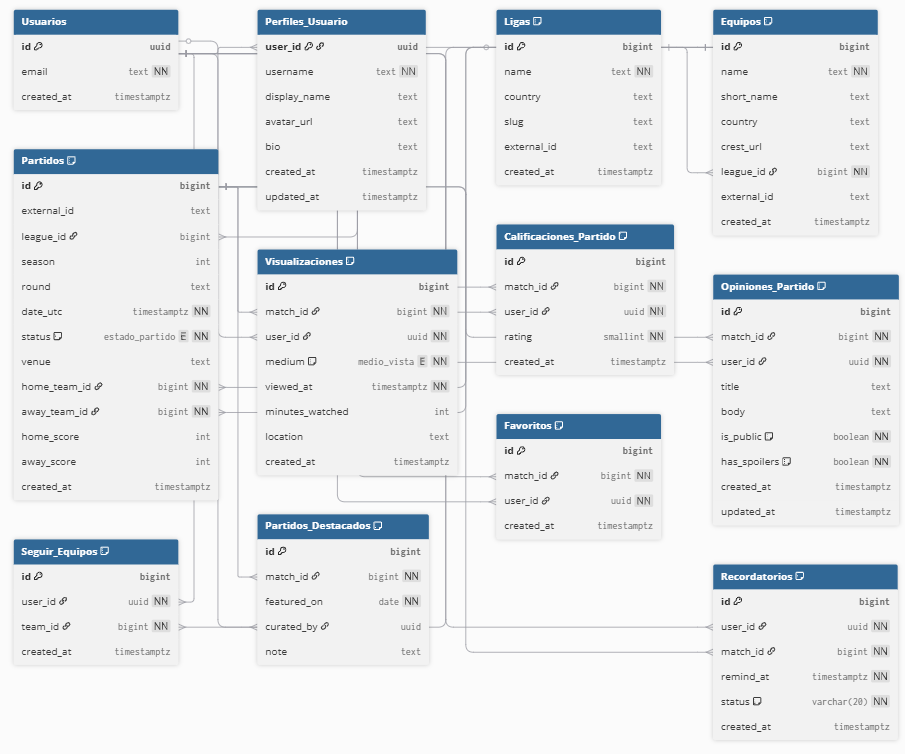
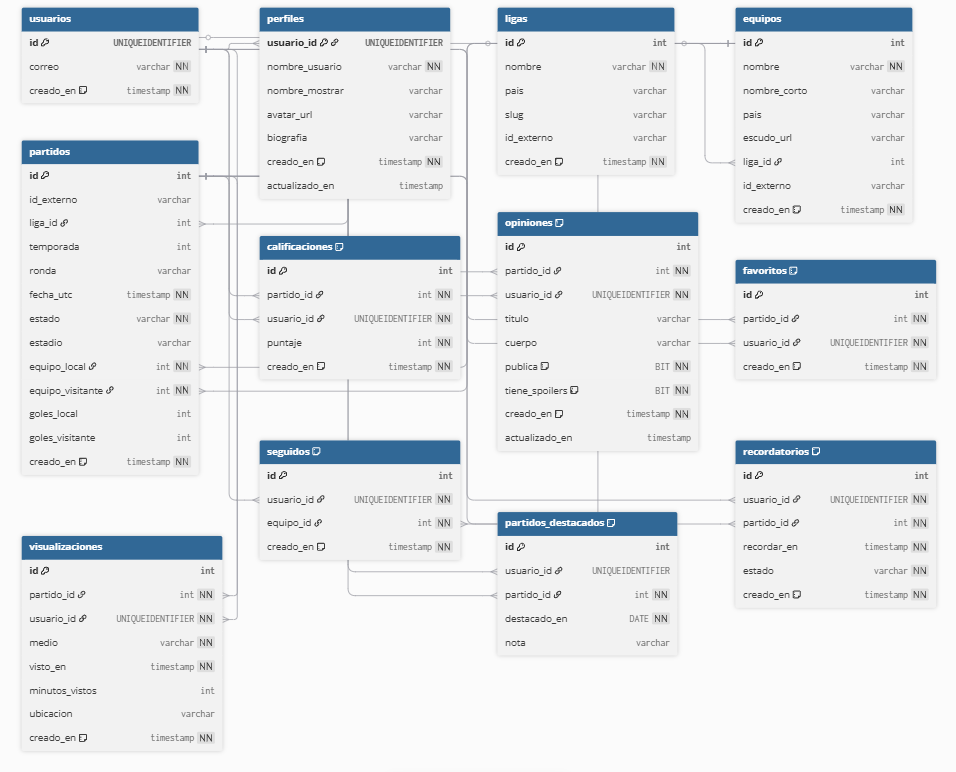
Correccion en el readme y agregue el diccionario de datos completo

diff --git a/docs/diccionario_datos.md b/docs/diccionario_datos.md
@@ -1,0 +1,166 @@
+# Diccionario de datos completo — Tribuneros
+
+Este documento describe en detalle los objetos del esquema `dbo` implementado para la plataforma Tribuneros en SQL Server. Se especifican los campos, tipos de datos, restricciones y propósito funcional de cada tabla con el fin de facilitar la comprensión, el mantenimiento y la evolución del modelo.
+
+## Convenciones
+- **Tipo**: se expresa utilizando la sintaxis de SQL Server.
+- **Nulos**: se indica si la columna admite valores `NULL`.
+- **Predeterminado**: valor asignado automáticamente cuando no se proporciona un dato.
+- **Restricciones y reglas**: incluye claves, restricciones `CHECK`, `UNIQUE`, índices y referencias a otras tablas.
+
+---
+
+## 1. Gestión de usuarios
+
+### Tabla: `usuarios`
+| Columna | Tipo | Nulos | Predeterminado | Restricciones y reglas | Descripción |
+| --- | --- | --- | --- | --- | --- |
+| `id` | `UNIQUEIDENTIFIER` | NO | — | `PK_usuarios` | Identificador global del usuario; se genera en la capa de aplicación (`NEWID()`). |
+| `correo` | `NVARCHAR(255)` | NO | — | `UQ_usuarios_correo` | Correo electrónico utilizado como credencial única de acceso. |
+| `creado_en` | `DATETIME2` | NO | `SYSUTCDATETIME()` | `DF_usuarios_creado` | Marca temporal de alta en UTC para auditoría. |
+
+### Tabla: `perfiles`
+| Columna | Tipo | Nulos | Predeterminado | Restricciones y reglas | Descripción |
+| --- | --- | --- | --- | --- | --- |
+| `usuario_id` | `UNIQUEIDENTIFIER` | NO | — | `PK_perfiles`, `FK_perfiles_usuario` (ON DELETE CASCADE) | Identificador del usuario dueño del perfil; coincide 1:1 con `usuarios.id`. |
+| `nombre_usuario` | `NVARCHAR(30)` | NO | — | `UQ_perfiles_usuario` | Alias público y único en la red social. |
+| `nombre_mostrar` | `NVARCHAR(60)` | SÍ | — | — | Nombre visible en la interfaz. |
+| `avatar_url` | `NVARCHAR(400)` | SÍ | — | — | URL de la imagen de perfil. |
+| `biografia` | `NVARCHAR(400)` | SÍ | — | — | Breve descripción personal del usuario. |
+| `creado_en` | `DATETIME2` | NO | `SYSUTCDATETIME()` | `DF_perfiles_creado` | Fecha y hora de creación del perfil. |
+| `actualizado_en` | `DATETIME2` | SÍ | — | — | Última actualización del perfil. |
+
+---
+
+## 2. Catálogos deportivos
+
+### Tabla: `ligas`
+| Columna | Tipo | Nulos | Predeterminado | Restricciones y reglas | Descripción |
+| --- | --- | --- | --- | --- | --- |
+| `id` | `BIGINT IDENTITY(1,1)` | NO | — | `PK_ligas` | Identificador interno de la liga. |
+| `nombre` | `NVARCHAR(120)` | NO | — | — | Nombre oficial de la liga o competición. |
+| `pais` | `NVARCHAR(80)` | SÍ | — | — | País donde se disputa la liga. |
+| `slug` | `NVARCHAR(120)` | SÍ | — | `UQ_ligas_slug` | Identificador legible y único para URLs o integraciones. |
+| `id_externo` | `NVARCHAR(80)` | SÍ | — | — | Código de referencia en servicios externos. |
+| `creado_en` | `DATETIME2` | NO | `SYSUTCDATETIME()` | `DF_ligas_creado` | Marca temporal de registro de la liga. |
+
+### Tabla: `equipos`
+| Columna | Tipo | Nulos | Predeterminado | Restricciones y reglas | Descripción |
+| --- | --- | --- | --- | --- | --- |
+| `id` | `BIGINT IDENTITY(1,1)` | NO | — | `PK_equipos` | Identificador interno del equipo. |
+| `nombre` | `NVARCHAR(120)` | NO | — | — | Nombre completo del club. |
+| `nombre_corto` | `NVARCHAR(50)` | SÍ | — | — | Abreviatura para listados y marcadores. |
+| `pais` | `NVARCHAR(80)` | SÍ | — | — | País de origen del equipo. |
+| `escudo_url` | `NVARCHAR(400)` | SÍ | — | — | Ruta o URL del escudo institucional. |
+| `liga_id` | `BIGINT` | SÍ | — | `FK_equipos_liga` (ON DELETE SET NULL) | Liga en la que compite; se vacía si la liga se elimina. |
+| `id_externo` | `NVARCHAR(80)` | SÍ | — | — | Código de referencia en proveedores externos. |
+| `creado_en` | `DATETIME2` | NO | `SYSUTCDATETIME()` | `DF_equipos_creado` | Fecha de incorporación del equipo al catálogo. |
+
+---
+
+## 3. Gestión de partidos
+
+### Tabla: `partidos`
+| Columna | Tipo | Nulos | Predeterminado | Restricciones y reglas | Descripción |
+| --- | --- | --- | --- | --- | --- |
+| `id` | `BIGINT IDENTITY(1,1)` | NO | — | `PK_partidos` | Identificador del partido. |
+| `id_externo` | `NVARCHAR(80)` | SÍ | — | — | Código de sincronización con APIs deportivas. |
+| `liga_id` | `BIGINT` | SÍ | — | `FK_partidos_liga` (ON DELETE SET NULL), índice `IX_partidos_liga` | Liga asociada al partido. |
+| `temporada` | `INT` | SÍ | — | — | Año o temporada deportiva. |
+| `ronda` | `NVARCHAR(40)` | SÍ | — | — | Jornada, fecha o etapa del torneo. |
+| `fecha_utc` | `DATETIME2` | NO | — | Índice `IX_partidos_fecha` | Fecha y hora programada en UTC. |
+| `estado` | `NVARCHAR(15)` | NO | — | `CK_partidos_estado` | Estado del partido (`programado`, `en_vivo`, `finalizado`, `pospuesto`, `cancelado`). |
+| `estadio` | `NVARCHAR(120)` | SÍ | — | — | Estadio o sede del encuentro. |
+| `equipo_local` | `BIGINT` | NO | — | `FK_partidos_local` | Equipo que actúa como local. |
+| `equipo_visitante` | `BIGINT` | NO | — | `FK_partidos_visitante` | Equipo visitante. |
+| `goles_local` | `INT` | SÍ | — | — | Goles convertidos por el equipo local. |
+| `goles_visitante` | `INT` | SÍ | — | — | Goles convertidos por el equipo visitante. |
+| `creado_en` | `DATETIME2` | NO | `SYSUTCDATETIME()` | `DF_partidos_creado`, `CK_partidos_equipos_distintos` | Fecha de registro y control de que los equipos sean distintos. |
+
+---
+
+## 4. Interacciones de usuarios
+
+### Tabla: `calificaciones`
+| Columna | Tipo | Nulos | Predeterminado | Restricciones y reglas | Descripción |
+| --- | --- | --- | --- | --- | --- |
+| `id` | `BIGINT IDENTITY(1,1)` | NO | — | `PK_calificaciones` | Identificador de la calificación. |
+| `partido_id` | `BIGINT` | NO | — | `FK_calif_partido` (ON DELETE CASCADE) | Partido evaluado. |
+| `usuario_id` | `UNIQUEIDENTIFIER` | NO | — | `FK_calif_usuario` (ON DELETE CASCADE), índice `IX_calif_usuario` | Usuario que realiza la calificación. |
+| `puntaje` | `TINYINT` | NO | — | `CK_calif_1_5` | Valoración numérica entre 1 y 5 puntos. |
+| `creado_en` | `DATETIME2` | NO | `SYSUTCDATETIME()` | `DF_calif_creado`, `UQ_calif (partido_id, usuario_id)` | Fecha de registro; evita calificaciones duplicadas por usuario y partido. |
+
+### Tabla: `opiniones`
+| Columna | Tipo | Nulos | Predeterminado | Restricciones y reglas | Descripción |
+| --- | --- | --- | --- | --- | --- |
+| `id` | `BIGINT IDENTITY(1,1)` | NO | — | `PK_opiniones` | Identificador de la opinión o reseña. |
+| `partido_id` | `BIGINT` | NO | — | `FK_opiniones_partido` (ON DELETE CASCADE) | Partido sobre el que se escribe la reseña. |
+| `usuario_id` | `UNIQUEIDENTIFIER` | NO | — | `FK_opiniones_usuario` (ON DELETE CASCADE), índice `IX_opiniones_usuario` | Autor de la reseña. |
+| `titulo` | `NVARCHAR(120)` | SÍ | — | — | Encabezado corto de la reseña. |
+| `cuerpo` | `NVARCHAR(MAX)` | SÍ | — | — | Texto completo de la opinión. |
+| `publica` | `BIT` | NO | `1` | `DF_opiniones_publica` | Indica si la reseña es pública (`1`) o privada (`0`). |
+| `tiene_spoilers` | `BIT` | NO | `0` | `DF_opiniones_spoilers` | Marca si el contenido contiene spoilers. |
+| `creado_en` | `DATETIME2` | NO | `SYSUTCDATETIME()` | `DF_opiniones_creado` | Fecha de publicación. |
+| `actualizado_en` | `DATETIME2` | SÍ | — | — | Última modificación de la reseña. |
+| — | — | — | — | `UQ_opiniones (partido_id, usuario_id)` | Evita más de una reseña por usuario y partido. |
+
+### Tabla: `favoritos`
+| Columna | Tipo | Nulos | Predeterminado | Restricciones y reglas | Descripción |
+| --- | --- | --- | --- | --- | --- |
+| `id` | `BIGINT IDENTITY(1,1)` | NO | — | `PK_favoritos` | Identificador del marcador de favorito. |
+| `partido_id` | `BIGINT` | NO | — | `FK_fav_partido` (ON DELETE CASCADE) | Partido marcado como favorito. |
+| `usuario_id` | `UNIQUEIDENTIFIER` | NO | — | `FK_fav_usuario` (ON DELETE CASCADE), índice `IX_fav_usuario` | Usuario que marca el favorito. |
+| `creado_en` | `DATETIME2` | NO | `SYSUTCDATETIME()` | `DF_fav_creado`, `UQ_fav (partido_id, usuario_id)` | Fecha de registro y unicidad por usuario y partido. |
+
+### Tabla: `visualizaciones`
+| Columna | Tipo | Nulos | Predeterminado | Restricciones y reglas | Descripción |
+| --- | --- | --- | --- | --- | --- |
+| `id` | `BIGINT IDENTITY(1,1)` | NO | — | `PK_visualizaciones` | Identificador del registro de visualización. |
+| `partido_id` | `BIGINT` | NO | — | `FK_vis_partido` (ON DELETE CASCADE) | Partido que se vio. |
+| `usuario_id` | `UNIQUEIDENTIFIER` | NO | — | `FK_vis_usuario` (ON DELETE CASCADE), índice `IX_vis_usuario` | Usuario que registró la visualización. |
+| `medio` | `NVARCHAR(12)` | NO | — | `CK_vis_medio` | Medio de consumo (`estadio`, `tv`, `streaming`, `repetición`). |
+| `visto_en` | `DATETIME2` | NO | — | — | Fecha y hora en que se vio el partido. |
+| `minutos_vistos` | `INT` | SÍ | — | `CK_vis_minutos` | Minutos efectivamente vistos (0 a 200). |
+| `ubicacion` | `NVARCHAR(120)` | SÍ | — | — | Ubicación libre (ciudad, país o contexto). |
+| `creado_en` | `DATETIME2` | NO | `SYSUTCDATETIME()` | `DF_vis_creado` | Marca temporal de registro. |
+
+---
+
+## 5. Participación social y curaduría
+
+### Tabla: `seguidos`
+| Columna | Tipo | Nulos | Predeterminado | Restricciones y reglas | Descripción |
+| --- | --- | --- | --- | --- | --- |
+| `id` | `BIGINT IDENTITY(1,1)` | NO | — | `PK_seguidos` | Identificador del seguimiento. |
+| `usuario_id` | `UNIQUEIDENTIFIER` | NO | — | `FK_seguidos_usuario` (ON DELETE CASCADE), índice `IX_seguidos_usuario` | Usuario que sigue al equipo. |
+| `equipo_id` | `BIGINT` | NO | — | `FK_seguidos_equipo` (ON DELETE CASCADE) | Equipo seguido. |
+| `creado_en` | `DATETIME2` | NO | `SYSUTCDATETIME()` | `DF_seguidos_creado`, `UQ_seguidos (usuario_id, equipo_id)` | Fecha de alta y unicidad del vínculo. |
+
+### Tabla: `partidos_destacados`
+| Columna | Tipo | Nulos | Predeterminado | Restricciones y reglas | Descripción |
+| --- | --- | --- | --- | --- | --- |
+| `id` | `BIGINT IDENTITY(1,1)` | NO | — | `PK_destacados` | Identificador del registro destacado. |
+| `usuario_id` | `UNIQUEIDENTIFIER` | SÍ | — | `FK_destacados_usuario` (ON DELETE SET NULL) | Usuario curator que selecciona el partido; puede ser `NULL` si se elimina. |
+| `partido_id` | `BIGINT` | NO | — | `FK_destacados_partido` (ON DELETE CASCADE) | Partido destacado. |
+| `destacado_en` | `DATE` | NO | — | — | Fecha en la que el partido fue destacado. |
+| `nota` | `NVARCHAR(240)` | SÍ | — | — | Comentario o motivo del destacado. |
+
+### Tabla: `recordatorios`
+| Columna | Tipo | Nulos | Predeterminado | Restricciones y reglas | Descripción |
+| --- | --- | --- | --- | --- | --- |
+| `id` | `BIGINT IDENTITY(1,1)` | NO | — | `PK_recordatorios` | Identificador del recordatorio programado. |
+| `usuario_id` | `UNIQUEIDENTIFIER` | NO | — | `FK_recordatorios_usuario` (ON DELETE CASCADE) | Usuario que programa la alerta. |
+| `partido_id` | `BIGINT` | NO | — | `FK_recordatorios_partido` (ON DELETE CASCADE) | Partido asociado al recordatorio. |
+| `recordar_en` | `DATETIME2` | NO | — | Índice `IX_recordatorios` | Fecha y hora en que se debe enviar la notificación. |
+| `estado` | `NVARCHAR(12)` | NO | — | `CK_recordatorios_estado` | Estado operativo (`pendiente`, `enviado`, `cancelado`). |
+| `creado_en` | `DATETIME2` | NO | `SYSUTCDATETIME()` | `DF_recordatorios_creado` | Fecha de creación del recordatorio. |
+
+---
+
+## 6. Dependencias y consideraciones generales
+- Todas las claves foráneas se declaran con acciones `ON DELETE` que preservan la integridad referencial acorde al proceso de negocio: las interacciones se eliminan si desaparece el partido o usuario, mientras que catálogos se desacoplan estableciendo `NULL` donde corresponde.
+- Las columnas de auditoría (`creado_en`, `actualizado_en`) utilizan `SYSUTCDATETIME()` para favorecer operaciones en múltiples zonas horarias.
+- Se incluyen índices auxiliares en columnas de búsqueda frecuente (`usuario_id`, `recordar_en`, `fecha_utc`) para optimizar consultas analíticas y operativas.
+- El esquema completo se inicializa mediante `script/creacion.sql` y se complementa con cargas de ejemplo en `script/carga_inicial.sql`.
+
+Este diccionario debe revisarse y actualizarse ante cualquier cambio en la definición de tablas o reglas del negocio para mantener la trazabilidad documental del proyecto.

diff --git a/README.md b/README.md
@@ -186,7 +186,7 @@ Incluye:
 
 ---
 
-### Diccionario de datos  
+### Diccionario de datos
 
 | Tabla | Columna | Tipo | Regla | Descripción |
 |---|---|---|---|---|
@@ -199,7 +199,7 @@ Incluye:
 | `seguidos` | `(usuario_id,equipo_id)` | — | UNIQUE | Un usuario sigue un equipo una sola vez |
 | `recordatorios` | `estado` | NVARCHAR(12) | CHECK valores válidos | Estado del recordatorio |
 
-> El **diccionario completo** se encuentra en el documento PDF (carpeta `docs/`).  
+> Consulta el [diccionario de datos completo](docs/diccionario_datos.md) para obtener el detalle por tabla, columnas y reglas de negocio.
 
 ---
 
@@ -210,6 +210,9 @@ Incluye:
 │  ├─ banner-bdi.jpg           # Identidad visual para presentaciones
 │  ├─ der-tribuneros.png       # Diagrama entidad-relación
 │  └─ badge-bdi.png            # Insignia para documentación
+├─ docs/
+│  ├─ capitulo-2-marco-conceptual.md # Versión extendida del marco conceptual
+│  └─ diccionario_datos.md           # Diccionario de datos completo en formato Markdown
 ├─ script/
 │  ├─ creacion.sql             # DDL: tablas, claves y restricciones
 │  ├─ carga_inicial.sql        # DML: dataset representativo
